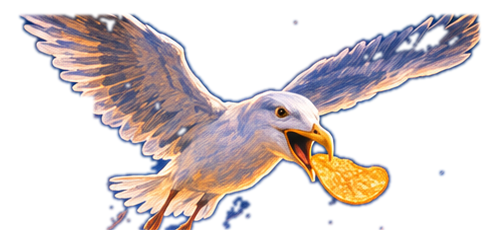
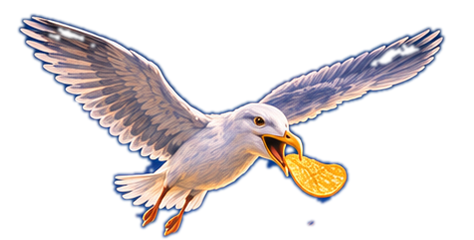
Cover test 4: repainted cover (solid figures, longer guitar neck, whole gull, grounded pitch)

diff --git a/preview/cover-test/index.html b/preview/cover-test/index.html
@@ -3,7 +3,7 @@
 <head>
 <meta charset="utf-8">
 <meta name="viewport" content="width=device-width, initial-scale=1">
-<title>Chip'R Chips – cover-test 3</title>
+<title>Chip'R Chips – cover-test 4</title>
 <link rel="icon" href="data:,">
 <style>
   html, body { margin: 0; height: 100%; background: #0d1020; color: #f7f5ef; font-family: system-ui, sans-serif; }
@@ -21,7 +21,7 @@
   @keyframes breathe { from { opacity: 0.5; } to { opacity: 0.8; } }
   @keyframes drift { from { transform: translateX(-8%); } to { transform: translateX(40%); } }
   /* The gull is cut from the original painting, a little smaller, with room to the edges, gliding on a slow arc. */
-  .gull { left: 70%; top: 2.5%; width: 27.5%; transform-origin: 60% 50%; animation: glide 11s ease-in-out infinite; }
+  .gull { left: 71.51%; top: 0; width: 28.49%; transform-origin: 60% 50%; animation: glide 11s ease-in-out infinite; }
   .gull img { width: 100%; display: block; }
   @keyframes glide { 0%, 100% { translate: 0 0; rotate: 0deg; } 30% { translate: -3% 4%; rotate: -2.5deg; } 65% { translate: -1% 7%; rotate: 1deg; } }
   /* The in-game logo with a dark shadow behind it, as on the first cover. */
@@ -40,16 +40,16 @@
 </head>
 <body>
 <div class="stage" id="stage">
-  <img class="full" src="layers/base.jpg?v=4" alt="" id="base">
+  <img class="full" src="layers/base.jpg?v=5" alt="" id="base">
   <div class="sky"></div>
   <div class="sun"></div>
   <canvas class="full" id="fx"></canvas>
-  <div class="gull" data-depth="0.6"><img src="layers/gull.png?v=4" alt=""></div>
+  <div class="gull" data-depth="0.6"><img src="layers/gull.png?v=5" alt=""></div>
   <div class="shade"></div>
-  <img class="logo" data-depth="0.3" src="layers/logo.png?v=4" alt="Chip'R Chips">
+  <img class="logo" data-depth="0.3" src="layers/logo.png?v=5" alt="Chip'R Chips">
   <div class="band"><span>Start</span></div>
 </div>
-<div class="note">Testside 3: rettet etter review fra Codex og OpenCode. Start-knappen viser bare hvor knappene kan stå. Håret kommer senere.</div>
+<div class="note">Testside 4: maleriet er malt om (ingen himmel gjennom figurene, lengre gitarhals, hele måsen, fotballbane på bakken). Start-knappen viser bare hvor knappene kan stå. Håret kommer senere.</div>
 <script>
 const W = 1664, H = 936;
 const reduced = matchMedia('(prefers-reduced-motion: reduce)').matches;
